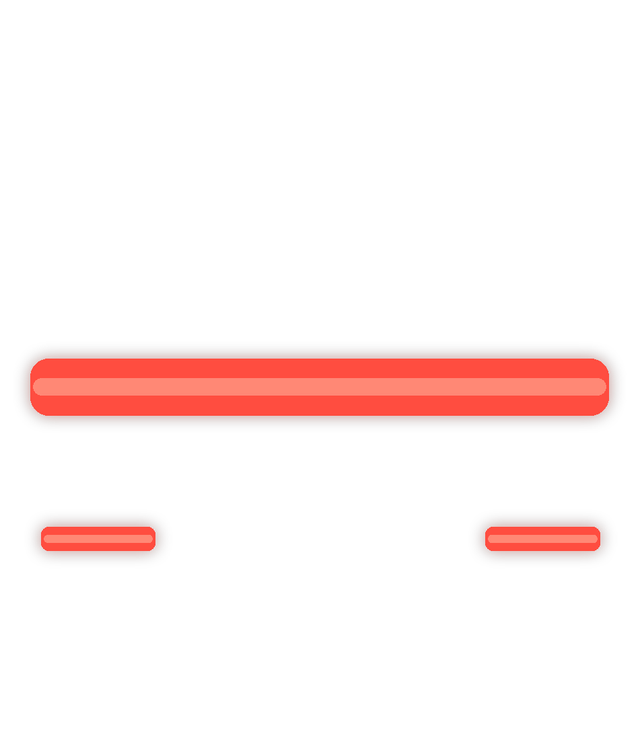
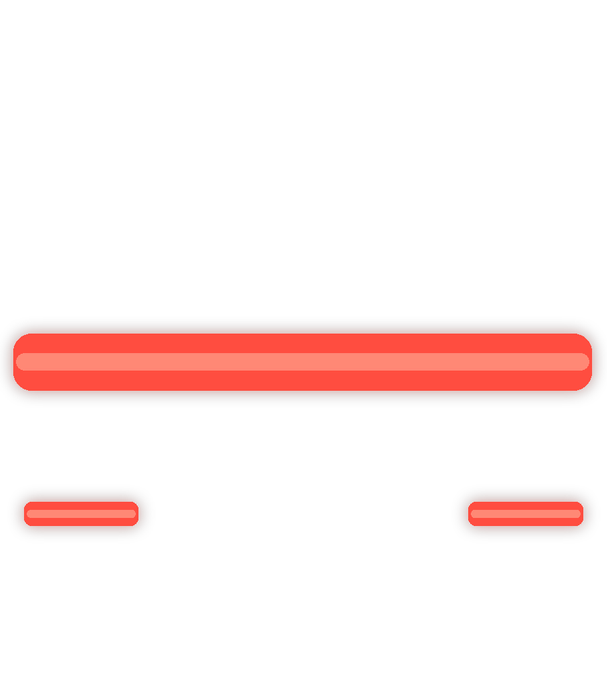
cluster: crop Trailblazer artwork margins and center the billboard
The artwork had ~5% transparent margin at the bottom, which floated
the visible car above the road. Crop all four textures to the base
alpha bbox. Also center the billboard horizontally: draw_billboard_pro
anchors the quad's bottom-left corner at the position, so pass
origin.x = width/2 (per the raylib 5.5/6.0 source).

Changed region(s): [[0.0, 0.4667, 1.0, 0.5911], [0.0297, 0.6844, 0.2669, 0.8089], [0.7414, 0.6844, 0.9786, 0.8089]]

diff --git a/openpilot/selfdrive/carrot/cluster/cluster_renderer.py b/openpilot/selfdrive/carrot/cluster/cluster_renderer.py
@@ -117,7 +117,7 @@ VEHICLE_IMAGE_PATH = CLUSTER_DIR / "assets" / "images" / "trailblazer_vehicle.pn
 VEHICLE_LAMP_LEFT_IMAGE_PATH = CLUSTER_DIR / "assets" / "images" / "trailblazer_lamp_left.png"
 VEHICLE_LAMP_RIGHT_IMAGE_PATH = CLUSTER_DIR / "assets" / "images" / "trailblazer_lamp_right.png"
 VEHICLE_LAMP_BRAKE_IMAGE_PATH = CLUSTER_DIR / "assets" / "images" / "trailblazer_lamp_brake.png"
-VEHICLE_IMAGE_ASPECT = 734 / 640  # artwork height / width
+VEHICLE_IMAGE_ASPECT = 675 / 607  # artwork height / width (alpha-cropped)
 VEHICLE_IMAGE_HEIGHT_SCALE = 1.55  # billboard height vs the vehicle box height
 SPEED_BG_PATH = SELFDRIVE_DIR / "assets" / "images" / "speed_bg.png"
 TRAFFIC_RED_ICON_PATH = SELFDRIVE_DIR / "assets" / "images" / "traffic_red.png"
@@ -3053,15 +3053,16 @@ class ClusterUiRenderer:
         base = textures["base"]
         height_m = max(0.6, vehicle.height_m * VEHICLE_IMAGE_HEIGHT_SCALE)
         width_m = height_m / VEHICLE_IMAGE_ASPECT
-        # draw_billboard_pro with origin (0, 0) anchors the quad's bottom
-        # center at `position` (verified against raylib 6.0), so z stays at
-        # ground level and the artwork stands on the road.
+        # draw_billboard_pro anchors the quad's bottom-left corner at
+        # `position` (raylib 5.5/6.0 semantics, checked against the C
+        # source), so origin.x = width/2 centers it on the vehicle and z
+        # stays at ground level: the artwork stands on the road.
         position = rl.Vector3(vehicle.center.x, vehicle.center.y, 0.02)
         alpha = int(92 + 163 * clamp(vehicle.confidence, 0.0, 1.0))
         tint = rl_color(WHITE, alpha)
         up = rl.Vector3(0.0, 0.0, 1.0)
         size = rl.Vector2(width_m, height_m)
-        origin = rl.Vector2(0.0, 0.0)
+        origin = rl.Vector2(width_m * 0.5, 0.0)
         rl.draw_billboard_pro(
             camera, base, rl.Rectangle(0, 0, base.width, base.height),
             position, up, size, origin, 0.0, tint,
